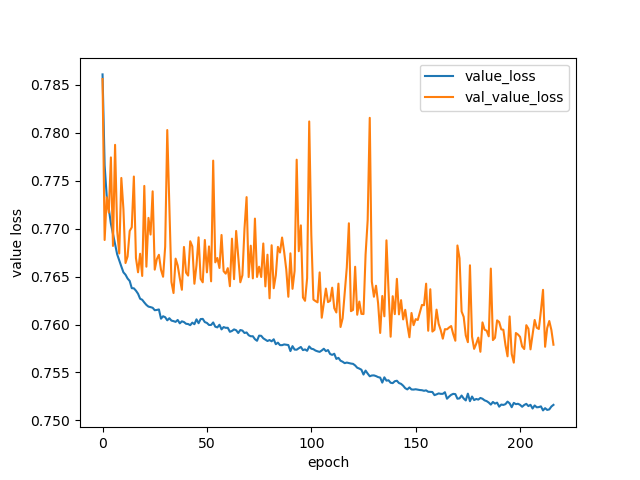
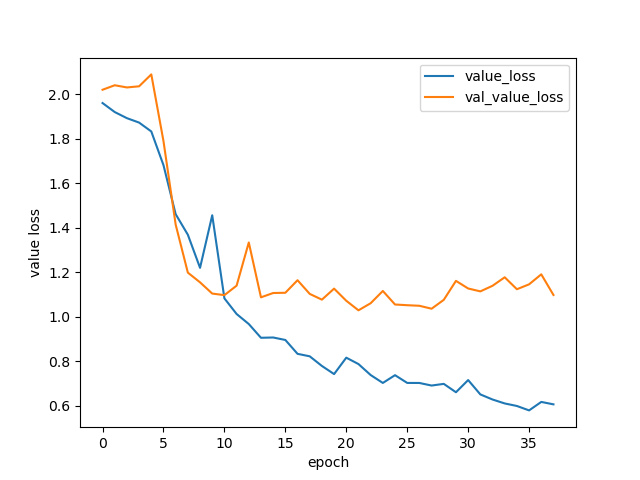
new model

diff --git a/learn_retrain.py b/learn_retrain.py
@@ -21,7 +21,7 @@ all_data = []
 n_epochs = 1000
 game_num = 20000
 game_strt = 0
-n_kernels = 20
+n_kernels = 25
 kernel_size = 3
 use_ratio = 1.0
 test_ratio = 0.2
@@ -101,6 +101,7 @@ def reshape_data_train():
         my_evaluate.stdin.flush()
         additional_data = my_evaluate.stdout.readline().decode().strip()
         tmp_data.append([board, additional_data, policies, score])
+        #tmp_data.append([board, policies, score])
     shuffle(tmp_data)
     ln = len(tmp_data)
     print('got', ln)
@@ -125,6 +126,7 @@ def reshape_data_train():
     train_idx = 0
     for ii in trange(ln):
         board, param, policies, score = tmp_data[ii]
+        #board, policies, score = tmp_data[ii]
         stone_num = 0
         grid_space0 = ''
         grid_space1 = ''
@@ -155,7 +157,7 @@ def reshape_data_train():
                 for k in range(3):
                     train_board[train_idx][i][j][k] = grid_flat[k * hw2 + j * hw + i]
         for i, elem in zip(range(11), param.split()):
-            train_param[train_idx][i] = elem
+            train_param[train_idx][i] = float(elem)
         for i in range(hw2):
             train_policies[train_idx][i] = policies[i]
         train_value[train_idx] = score
@@ -164,13 +166,9 @@ def reshape_data_train():
     train_param = train_param[0:train_idx]
     train_policies = train_policies[0:train_idx]
     train_value = train_value[0:train_idx]
-    #train_board = np.array(train_board)
-    #train_param = np.array(train_param)
-    #train_policies = np.array(train_policies)
-    #train_value = np.array(train_value)
-    mean = train_param.mean(axis=0)
-    std = train_param.std(axis=0)
-    train_param = (train_param - mean) / std
+    #mean = train_param.mean(axis=0)
+    #std = train_param.std(axis=0)
+    #train_param = (train_param - mean) / std
     '''
     print(train_board[0])
     print(train_param[0])
@@ -191,6 +189,7 @@ def reshape_data_test():
         my_evaluate.stdin.flush()
         additional_data = my_evaluate.stdout.readline().decode().strip()
         tmp_data.append([board, additional_data, policies, score])
+        #tmp_data.append([board, policies, score])
     shuffle(tmp_data)
     ln = len(tmp_data)
     print('got', ln)
@@ -214,6 +213,7 @@ def reshape_data_test():
     '''
     for ii in trange(ln):
         board, param, policies, score = tmp_data[ii]
+        #board, policies, score = tmp_data[ii]
         stone_num = 0
         grid_space0 = ''
         grid_space1 = ''
@@ -237,7 +237,7 @@ def reshape_data_test():
     test_param = np.array(test_param)
     test_policies = np.array(test_policies)
     test_value = np.array(test_value)
-    test_param = (test_param - mean) / std
+    #test_param = (test_param - mean) / std
     '''
     print(test_board[0])
     print(test_param[0])
@@ -291,15 +291,16 @@ x_b = Conv2D(n_kernels, kernel_size, padding='same', use_bias=False)(input_b)
 #x_b = BatchNormalization()(x_b)
 x_b = LeakyReLU(alpha=leakyrelu_alpha)(x_b)
 #x_b = LeakyReLU(x_b)
-for _ in range(3):
+for _ in range(2):
     sc = x_b
     x_b = Conv2D(n_kernels, kernel_size, padding='same', use_bias=False)(x_b)
     x_b = Add()([x_b, sc])
     x_b = LeakyReLU(alpha=leakyrelu_alpha)(x_b)
     #x_b = LeakyReLU(x_b)
 x_b = GlobalAveragePooling2D()(x_b)
-x_b = Model(inputs=[input_b, input_p], outputs=x_b)
 
+#x_b = Model(inputs=[input_b, input_p], outputs=x_b)
+'''
 x_p = Dense(32)(input_p)
 x_p = LeakyReLU(alpha=leakyrelu_alpha)(x_p)
 #x_p = LeakyReLU(x_p)
@@ -308,8 +309,10 @@ x_p = Dense(16)(x_p)
 x_p = LeakyReLU(alpha=leakyrelu_alpha)(x_p)
 #x_p = LeakyReLU(x_p)
 x_p = Model(inputs=[input_b, input_p], outputs=x_p)
+'''
+x_all = concatenate([x_b, input_p])
 
-x_all = concatenate([x_b.output, x_p.output])
+#x_all = x_b
 
 output_p = Dense(hw2)(x_all)
 output_p = Activation('softmax', name='policy')(output_p)
@@ -321,12 +324,14 @@ output_v = Dense(1)(x_all)
 output_v = Activation('tanh', name='value')(output_v)
 
 model = Model(inputs=[input_b, input_p], outputs=[output_p, output_v])
+#model = Model(inputs=[input_b], outputs=[output_p, output_v])
 model.summary()
 model.compile(loss=['categorical_crossentropy', 'mse'], optimizer='adam')
 #plot_model(model, show_shapes=True, show_layer_names=False)
 early_stop = EarlyStopping(monitor='val_loss', patience=10)
 
 history = model.fit([train_board, train_param], [train_policies, train_value], epochs=n_epochs, validation_data=([test_board, test_param], [test_policies, test_value]), callbacks=[early_stop])
+#history = model.fit([train_board], [train_policies, train_value], epochs=n_epochs, validation_data=([test_board], [test_policies, test_value]), callbacks=[early_stop])
 with open('param/mean.txt', 'w') as f:
     for i in mean:
         f.write(str(i) + '\n')
@@ -355,6 +360,7 @@ plt.clf()
 test_num = 10
 test_num = min(test_value.shape[0], test_num)
 test_predictions = model.predict([test_board[0:test_num], test_param[0:test_num]])
+#test_predictions = model.predict([test_board[0:test_num]])
 ans_policies = [(np.argmax(i), i[np.argmax(i)]) for i in test_policies[0:test_num]]
 ans_value = [round(i, 3) for i in test_value[0:test_num]]
 pred_policies = [(np.argmax(i), i[np.argmax(i)]) for i in test_predictions[0]]

diff --git a/ai.cpp b/ai.cpp
@@ -42,10 +42,10 @@ using namespace std;
 #define n_board_input 3
 #define n_add_input 11
 #define kernel_size 3
-#define n_kernels 20
+#define n_kernels 32
 #define n_residual 3
-#define n_dense1 32
-#define n_dense2 16
+#define n_dense1 0
+#define n_dense2 0
 #define n_joined (n_kernels + n_dense2)
 #define conv_size (hw_p1 - kernel_size)
 #define conv_padding (kernel_size / 2)
@@ -518,6 +518,7 @@ void init(){
             }
         }
     }
+    cerr << "a";
     int residual_i;
     for (residual_i = 0; residual_i < n_residual; ++residual_i){
         for (i = 0; i < n_kernels; ++i){
@@ -534,6 +535,7 @@ void init(){
             }
         }
     }
+    /*
     for (i = 0; i < n_add_input; ++i){
         for (j = 0; j < n_dense1; ++j){
             if (!fgets(cbuf, 1024, fp)){
@@ -566,6 +568,7 @@ void init(){
         }
         eval_param.bias2[i] = atof(cbuf);
     }
+    */
     for (i = 0; i < n_joined; ++i){
         for (j = 0; j < hw2; ++j){
             if (!fgets(cbuf, 1024, fp)){
@@ -594,6 +597,7 @@ void init(){
         exit(1);
     }
     eval_param.bias4 = atof(cbuf);
+    /*
     if ((fp = fopen("param/mean.txt", "r")) == NULL){
         printf("mean file not exist");
         exit(1);
@@ -616,6 +620,7 @@ void init(){
         }
         eval_param.std[i] = atof(cbuf);
     }
+    */
     if ((fp = fopen("param/book.txt", "r")) == NULL){
         printf("book file not exist");
         exit(1);
@@ -830,6 +835,7 @@ inline predictions predict(const int *board){
             eval_param.input_b[0][j][hw_m1 + conv_padding2] = 0.0;
         }
     }
+    /*
     for (i = 0; i < n_add_input; ++i)
         eval_param.input_p[i] = 0.0;
     eval_param.input_p[3] = eval_param.avg_canput[search_param.turn];
@@ -851,6 +857,7 @@ inline predictions predict(const int *board){
         eval_param.input_p[i] -= eval_param.mean[i];
         eval_param.input_p[i] /= eval_param.std[i];
     }
+    */
     // conv and normalization and leaky-relu for input_b
     for (i = 0; i < n_kernels; ++i){
         for (y = 0; y < hw + conv_padding2; ++y){
@@ -906,6 +913,7 @@ inline predictions predict(const int *board){
         }
         eval_param.hidden_joined[i] /= div_pooling;
     }
+    /*
     // dense1 and bias and leaky-relu for input_p
     for (i = 0; i < n_dense1; ++i)
         eval_param.hidden_dense1[i] = 0.0;
@@ -924,6 +932,7 @@ inline predictions predict(const int *board){
     }
     for (i = 0; i < n_dense2; ++i)
         eval_param.hidden_joined[n_kernels + i] = leaky_relu(eval_param.hidden_joined[n_kernels + i] + eval_param.bias2[i]);
+    */
     // dense and bias for policy output *don't need softmax because use softmax later
     for (i = 0; i < hw2; ++i)
         res.policies[i] = 0.0;
@@ -1472,6 +1481,7 @@ int main(){
         }
         if (ai_player == 1)
             swap(p, o);
+        /*
         key.first = p;
         key.second = o;
         cerr << key.first << " " << key.second << endl;
@@ -1480,9 +1490,9 @@ int main(){
             cout << search_param.book[key].policy / hw << " " << search_param.book[key].policy % hw << " " << search_param.book[key].rate << endl;
             continue;
         }
-        if (search_param.vacant_cnt){
+        */
+        if (search_param.vacant_cnt)
             sort(search_param.vacant_lst.begin(), search_param.vacant_lst.end(), cmp_vacant);
-        }
         for (i = 0; i < board_index_num; ++i){
             board_tmp = 0;
             for (j = 0; j < board_param.pattern_space[i]; ++j){
@@ -1493,7 +1503,7 @@ int main(){
             }
             board[i] = board_tmp;
         }
-        /*
+        
         print_board(board);
         predictions tmp = predict(board);
         double mx = -1000.0;
@@ -1506,7 +1516,7 @@ int main(){
         }
         cerr << mx_idx << " " << mx << " " << tmp.value << endl;
         return 0;
-        */
+        
         if (n_stones < hw2 - complete_stones){
             mcts(board);
         } else{

diff --git a/sample_test.py b/sample_test.py
@@ -152,9 +152,10 @@ pooling_out = Model(inputs=model.input, outputs=model.get_layer('global_average_
 
 test_num = 3
 test_num = min(test_board.shape[0], test_num)
-test_predictions = model.predict([test_board[0:test_num], test_param[0:test_num]])
-conv_outs = conv_out.predict([test_board[0:test_num], test_param[0:test_num]])
-pooling_outs = pooling_out.predict([test_board[0:test_num], test_param[0:test_num]])
+#test_predictions = model.predict([test_board[0:test_num], test_param[0:test_num]])
+test_predictions = model.predict([test_board[0:test_num]])
+#conv_outs = conv_out.predict([test_board[0:test_num], test_param[0:test_num]])
+#pooling_outs = pooling_out.predict([test_board[0:test_num], test_param[0:test_num]])
 pred_policies = [(np.argmax(i), i[np.argmax(i)]) for i in test_predictions[0]]
 pred_value = test_predictions[1]
 print('')

diff --git a/learn_from_self_play.py b/learn_from_self_play.py
@@ -15,9 +15,9 @@ import subprocess
 from math import exp
 from os import rename
 
-selfplay_num = 2
-num_self_play_in_one_time_train = 100
-num_self_play_in_one_time_test = 20
+selfplay_num = 1
+num_self_play_in_one_time_train = 500
+num_self_play_in_one_time_test = 50
 num_of_decide = 100
 n_epochs = 50
 

diff --git a/self_play.cpp b/self_play.cpp
@@ -34,7 +34,7 @@ using namespace std;
 #define hash_table_size 16384
 #define hash_mask (hash_table_size - 1)
 
-#define evaluate_count 20
+#define evaluate_count 5
 #define c_puct 10.0
 #define c_end 1.0
 #define mcts_complete_stones 8
